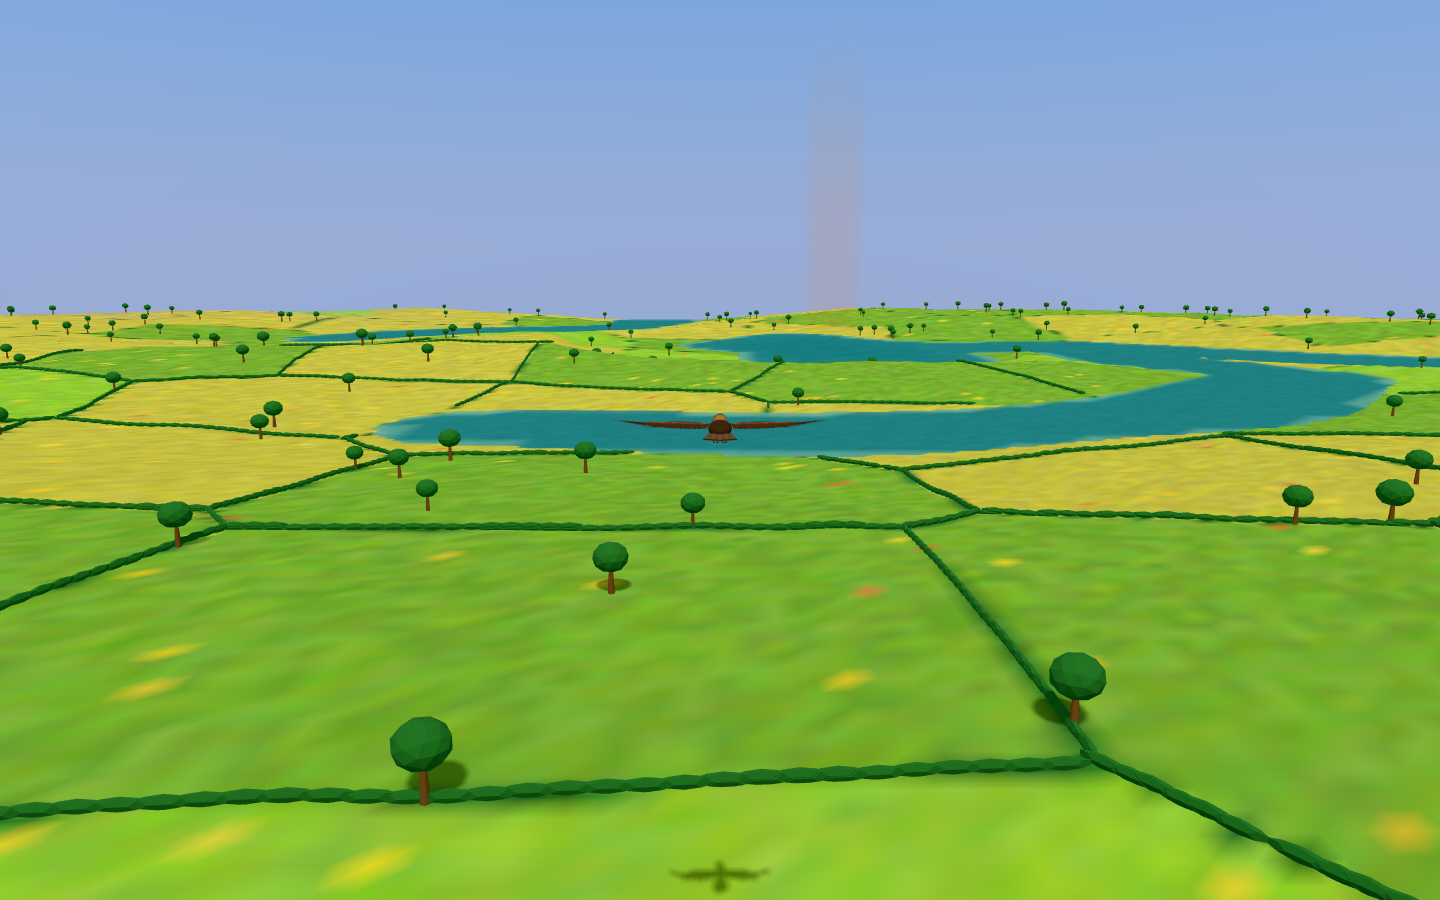
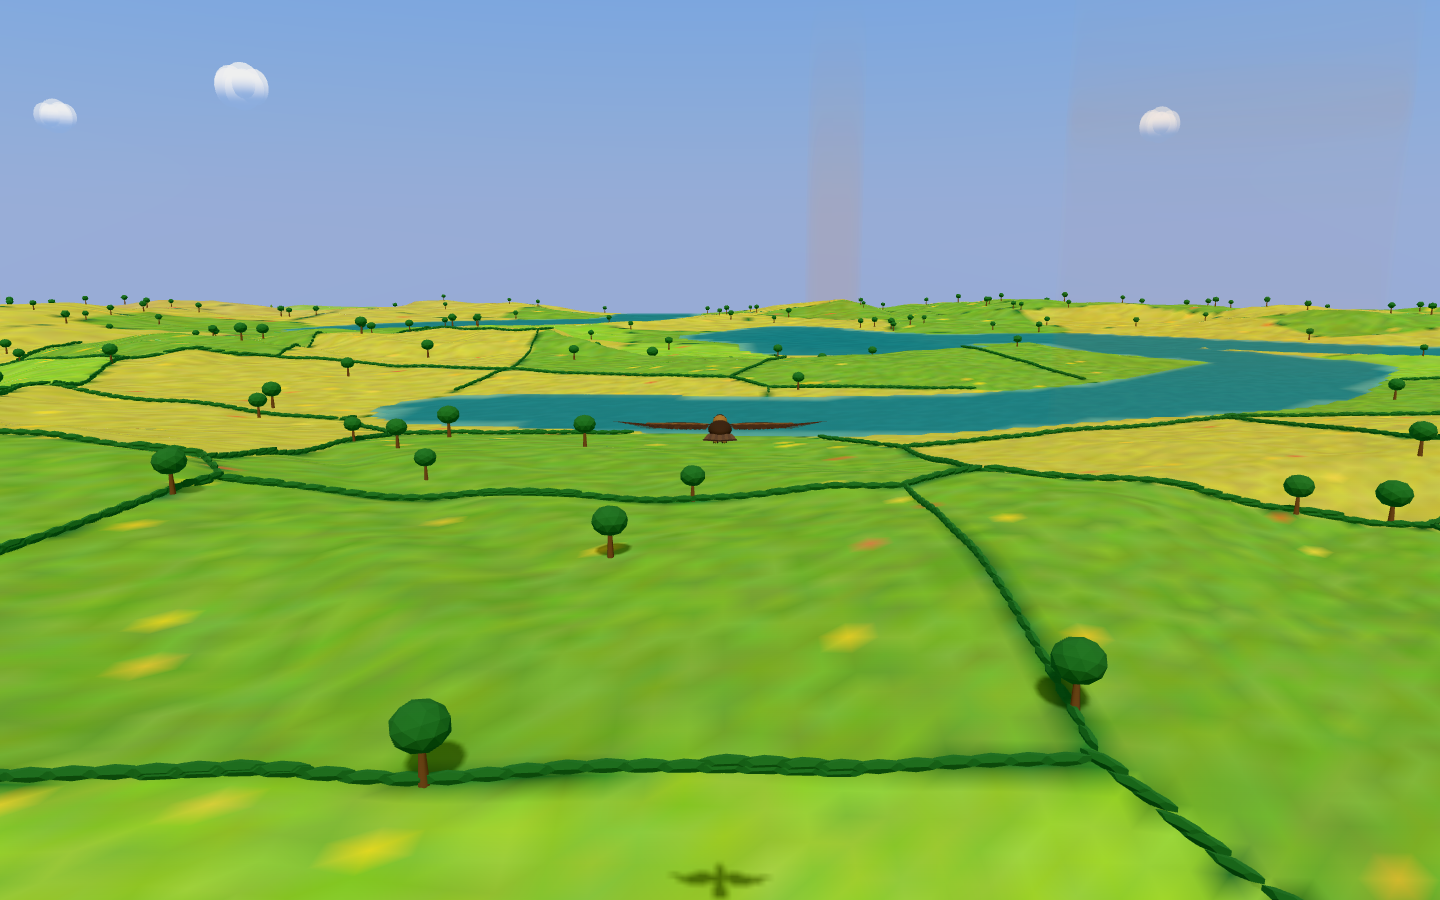
Preserve ground-only hills across climate integration

diff --git a/tests/lowland-climate.smoke.ts b/tests/lowland-climate.smoke.ts
@@ -1,0 +1,47 @@
+import { expect, test } from '@playwright/test';
+import { writeFile } from 'node:fs/promises';
+
+// Failure modes at the #86/#93 seam: hills disappear, their cooling changes the
+// broad biome profile and reroutes drainage, or temperature ignores final ground.
+test('ground-only hills do not feed back through climate into drainage', async ({ page }, testInfo) => {
+  await page.goto('/?smoke');
+  const evidence = await page.evaluate(async () => {
+    const worldPath = '/src/world.ts';
+    const biomePath = '/src/biome.ts';
+    const { WorldModel } = await import(worldPath);
+    const { CLIMATE } = await import(biomePath);
+    const samples = [];
+    const nodes = [];
+    for (const seed of [80231, 42, 123456]) {
+      const hills = new WorldModel(seed);
+      const broad = new WorldModel(seed);
+      // Narrow counterfactual: remove only the rendered hill term before any sampling.
+      broad.lowlandHills = () => 0;
+      for (const [x,z] of [[-3500,-40000],[-35500,-40000],[-40000,-25000],[28000,0],[-6900,4000]]) {
+        const withHills = hills.relief(x,z);
+        const withoutHills = broad.relief(x,z);
+        const ground = hills.sample(x,z);
+        const flat = broad.sample(x,z);
+        samples.push({seed,x,z,hills:withHills.hills,groundDifference:ground.height-flat.height,
+          broadElevation:withHills.elevation,withoutHillsElevation:withoutHills.elevation,
+          sameBiome:JSON.stringify(withHills.biome)===JSON.stringify(withoutHills.biome),
+          coolingError:Math.abs(ground.temperature-(withHills.seaTemperature-Math.max(0,ground.height)/CLIMATE.lapse))});
+      }
+      for (let i=-2;i<=2;i+=1) for(let j=-2;j<=2;j+=1) {
+        nodes.push({seed,i,j,same:JSON.stringify(hills.drainageAt(i,j))===JSON.stringify(broad.drainageAt(i,j))});
+      }
+    }
+    return {samples,nodes};
+  });
+  expect(evidence.samples.some((sample)=>Math.abs(sample.hills)>1)).toBe(true);
+  expect(evidence.samples.some((sample)=>Math.abs(sample.groundDifference)>1)).toBe(true);
+  for (const sample of evidence.samples) {
+    expect(sample.broadElevation).toBe(sample.withoutHillsElevation);
+    expect(sample.sameBiome).toBe(true);
+    expect(sample.coolingError).toBeLessThan(1e-12);
+  }
+  for (const node of evidence.nodes) expect(node.same).toBe(true);
+  const path=testInfo.outputPath('lowland-climate-evidence.json');
+  await writeFile(path,JSON.stringify(evidence,null,2));
+  await testInfo.attach('lowland-climate-evidence',{path,contentType:'application/json'});
+});

diff --git a/tests/highlands.smoke.ts b/tests/highlands.smoke.ts
@@ -5,7 +5,7 @@ import { expect, test } from '@playwright/test';
 // vertical jumps; lattice interpolation erases snow-height crests; snow leaks onto
 // steep rock or water. Keep #57's clearance and vertical-speed checks. Total flap
 // time is recorded, not capped. Reference: seed 57, (-24000, 3750), 3600 s at 10 Hz.
-// #93 changes lowland routes and thermal choices; start 500 m south of the old fixture.
+// #93 and merged #86 hills change thermal choices; start 500 m west of the original fixture.
 // #60 adds ridge-soaring: it must occur, climb without flapping, never pass the
 // flight-height ceiling, and no behaviour episode may exceed four minutes.
 const baseline = { commit: '184df89de4f05087194fdc25e36ddd83a7ba0181', start: { x: -24000, z: 3750 }, peakVerticalSpeed: 511.63911809568475, flappingSeconds: 164.8 };
@@ -19,7 +19,7 @@ test('one hour through Highlands keeps clearance and climb behavior safe', async
     const { WorldModel } = await import(/* @vite-ignore */ worldPath) as typeof import('../src/world');
     const { DEFAULT_FLIGHT_HEIGHT, EagleNavigator, TERRAIN_SAFETY_MARGIN } = await import(/* @vite-ignore */ eaglePath) as typeof import('../src/eagle');
     const world = new WorldModel(57);
-    const nav = new EagleNavigator(world, { x: -84000, z: 121500, heading: 0 });
+    const nav = new EagleNavigator(world, { x: -84500, z: 122000, heading: 0 });
     let episode = { behavior: nav.state.behavior as string, seconds: 0 };
     const longestEpisode: Record<string, number> = {};
     let ridgeEpisodes = 0;
@@ -60,7 +60,7 @@ test('one hour through Highlands keeps clearance and climb behavior safe', async
     }
     longestEpisode[episode.behavior] = Math.max(longestEpisode[episode.behavior] ?? 0, episode.seconds);
     return {
-      seed: 57, start: { x: -84000, z: 121500, heading: 0 }, seconds: 3600, minClearance, peakVerticalSpeed, flappingSeconds, safetyCorrections, highlandSeconds,
+      seed: 57, start: { x: -84500, z: 122000, heading: 0 }, seconds: 3600, minClearance, peakVerticalSpeed, flappingSeconds, safetyCorrections, highlandSeconds,
       ridgeEpisodes, ridgeSeconds, ridgeMeanClimb: ridgeSeconds > 0 ? ridgeClimb / ridgeSeconds : 0, ridgeFlappingTicks, ridgeCeilingBreaches, ridgeMinClearance, longestEpisode,
     };
   });

diff --git a/docs/diagnostics/issue-93-biomes/README.md b/docs/diagnostics/issue-93-biomes/README.md
@@ -16,7 +16,7 @@ The field seeds derive from hashes of the world seed. As in FWM's implementation
 
 Highlands and Lakeland claim their existing territories first. The three climate biomes share the remainder using `exp(-2.2 × (distance² - nearest distance²))`, with distances divided by `0.12²` and axes stretched by 2.2. The weights sum to one.
 
-Temperature falls by one every 2,600 m. Selection uses a single uncarved height estimate to avoid a cycle between biome profiles, height and drainage. Snow, scree and the tree line use temperature at the final ground height. Their thresholds retain the former height bands at sea-level temperature 0.5. Cold massifs can have snow much lower than warm massifs.
+Temperature falls by one every 2,600 m. Selection uses a single uncarved broad height estimate to avoid a cycle between biome profiles, height and drainage. It excludes #86's ground-only hills: cooling from those hills must not change the broad profile and feed the hill shape into drainage. The rendered ground still adds hills and peat shelves. Snow, scree and the tree line use temperature at the final ground height. Their thresholds retain the former height bands at sea-level temperature 0.5. Cold massifs can have snow much lower than warm massifs.
 
 ## Coverage and median spans
 
@@ -24,7 +24,7 @@ Reproduce from the repository root:
 
 ```sh
 node scripts/audit-biome-spans.mjs
-node scripts/audit-biome-spans.mjs --ref 700c56f
+node scripts/audit-biome-spans.mjs --ref 17ed32f
 ```
 
 Each cell reports mean weight coverage followed by median span. Lakeland has coverage only. The committed raw reports are [after](biome-spans.json) and [before](biome-spans-before.json).
@@ -53,12 +53,12 @@ Reproduce a map on macOS, where the script uses `sips` to encode PNG:
 
 ```sh
 node scripts/biome-map.mjs 80231 --tag proposed
-node scripts/biome-map.mjs 80231 --ref 700c56f --tag main
+node scripts/biome-map.mjs 80231 --ref 17ed32f --tag main
 ```
 
 ## Same-vantage screenshots
 
-These captures use normal development rendering, shadows, a 1440 × 900 viewport, noon, and 1,800 m terrain visibility. They do not use reduced-resolution smoke mode. Before uses `700c56f`. The fixed world camera and look target are identical within each pair. Heights and drainage can change with the climate-selected profile, so the eagle can move within the frame.
+These captures use normal development rendering, shadows, a 1440 × 900 viewport, noon, and 1,800 m terrain visibility. They do not use reduced-resolution smoke mode. Before uses `17ed32f`, including merged ground-only hills, shared pools and puff clouds. The fixed world camera and look target are identical within each pair. Heights and drainage can change with the climate-selected profile, so the eagle can move within the frame.
 
 | Biome | Before | After |
 | --- | --- | --- |
@@ -84,9 +84,10 @@ Wait for `app.snapshot().pending === 0` for four consecutive 250 ms checks befor
 
 ## Validation and related fixes
 
-- `npm run check`: 56 existing unit tests, TypeScript and production build pass.
-- `SMOKE_PORT=4293 npm run test:smoke`: all 35 browser tests pass, including exact shared chunk edges.
+- Serial unit validation (`npm run test -- --maxWorkers=1`) passes all 57 tests. TypeScript and production build pass with `npm run build`.
+- The full one-worker software-WebGL smoke suite (`npx playwright test -c playwright.chunk-ci.config.ts --workers=1`) passes all 38 tests, including exact shared chunk edges.
 - `tests/climate.smoke.ts` writes repeatable climate evidence. It checks point dominance, normalized landform claims, different fields across adjacent seeds, cooling from final heights, cold tree exclusion, and warm/cold snow.
 - The snow fixture moved to the nearby taller peak at `(17250, 33000)`. Its former warm peak no longer has full snow under the approved temperature rule. Snow absence now checks warm temperature, not a synthetic height with unchanged temperature.
-- The one-hour Highlands route starts 500 m south. Changed lowland profiles and thermal choices caused the former route to miss ridge-soaring. All clearance, climb, ridge and duration assertions remain unchanged.
+- After reconciling #86, the one-hour Highlands route starts 500 m west of the original fixture, at `(-84500, 122000)`. A browser counterfactual at the prior climate fixture recorded no ridge episode with hills, but 445.5 s ridge-soaring with only the hill term disabled. The new nearby start records 210.1 s ridge-soaring and 2,613.1 s Highlands exposure. All clearance, climb, ridge and duration assertions remain unchanged. The [counterfactual measurements](hills-route-counterfactual.json) record the real browser replay.
+- `tests/lowland-climate.smoke.ts` removes only the hill term in a counterfactual world. It verifies that the hills change ground height but not climate selection, broad elevation or drainage nodes. Cooling still uses final ground height. This preserves the approved drainage separation from #86.
 - Overlapping river channels blend their water surfaces by channel depth. Climate-dependent drainage exposed a 13.38 m step at a narrow confluence on seed 448122. The existing valley test measured a slope of 6.69 against its limit of 3. Blending lowers the maximum to 2.52 without weakening that assertion. See the [differential measurements](confluence-slope.json).
